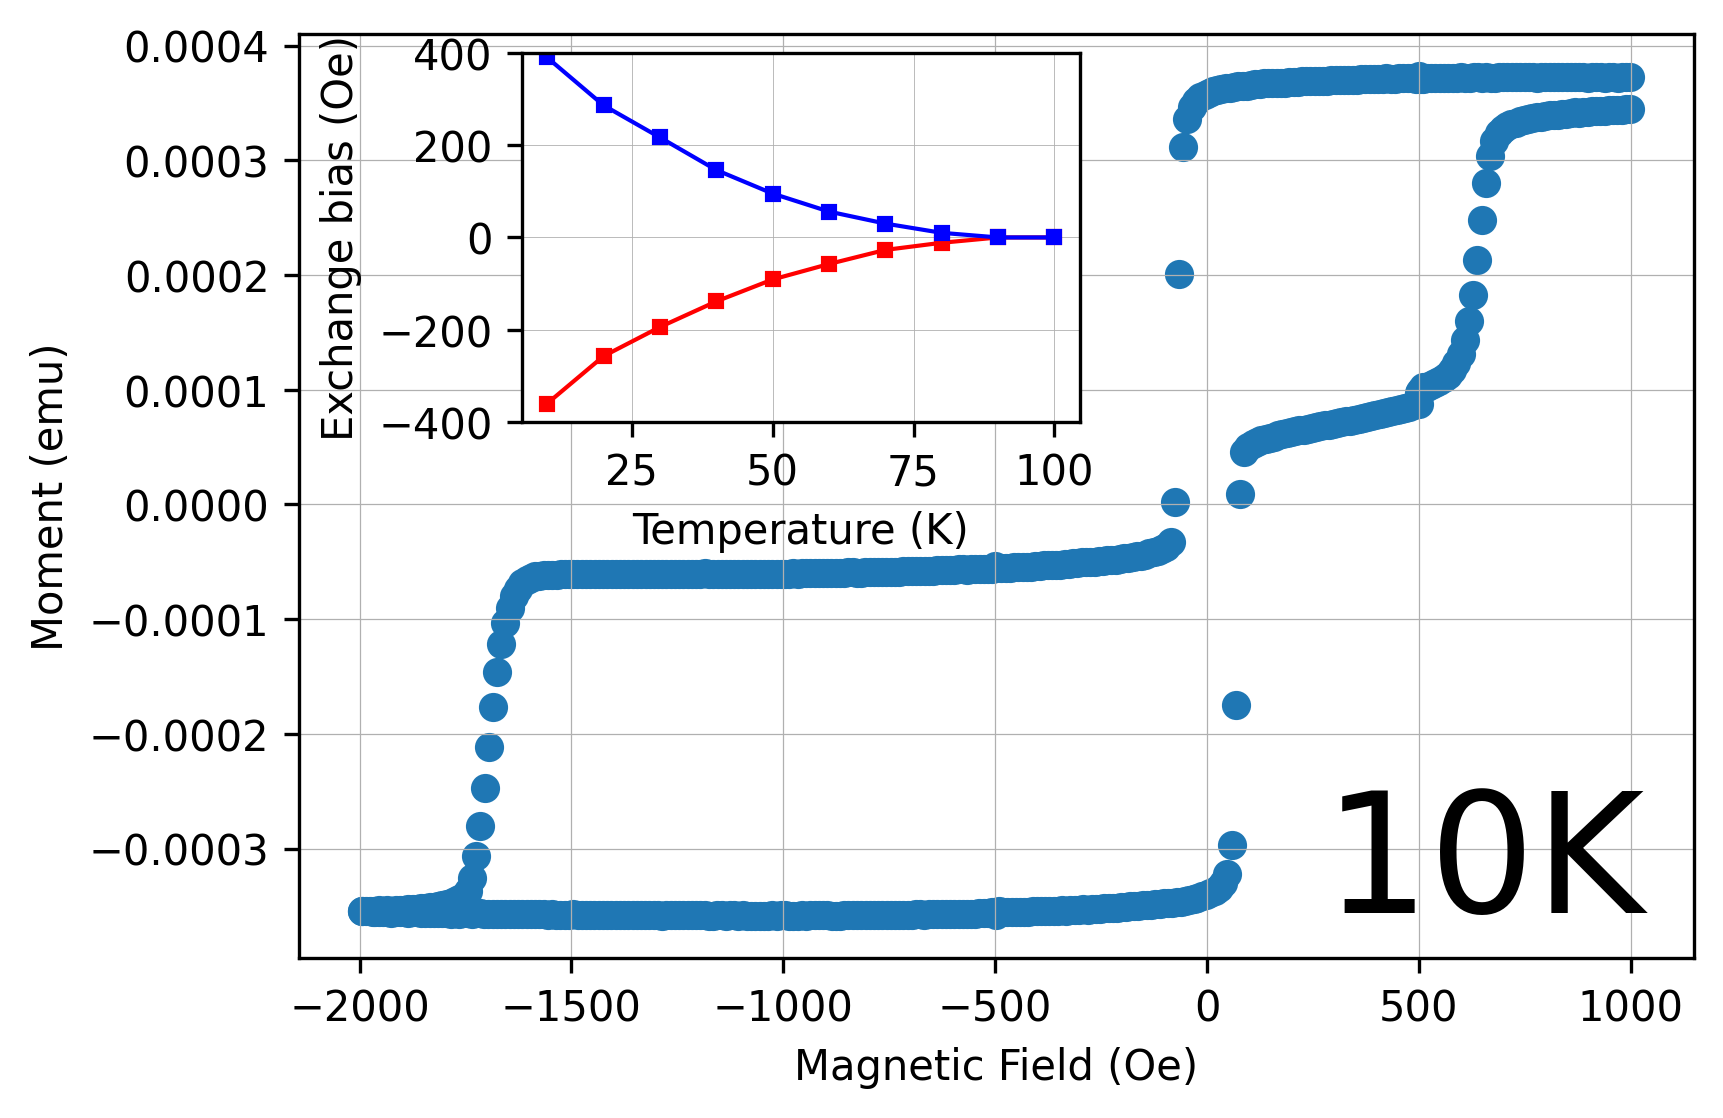
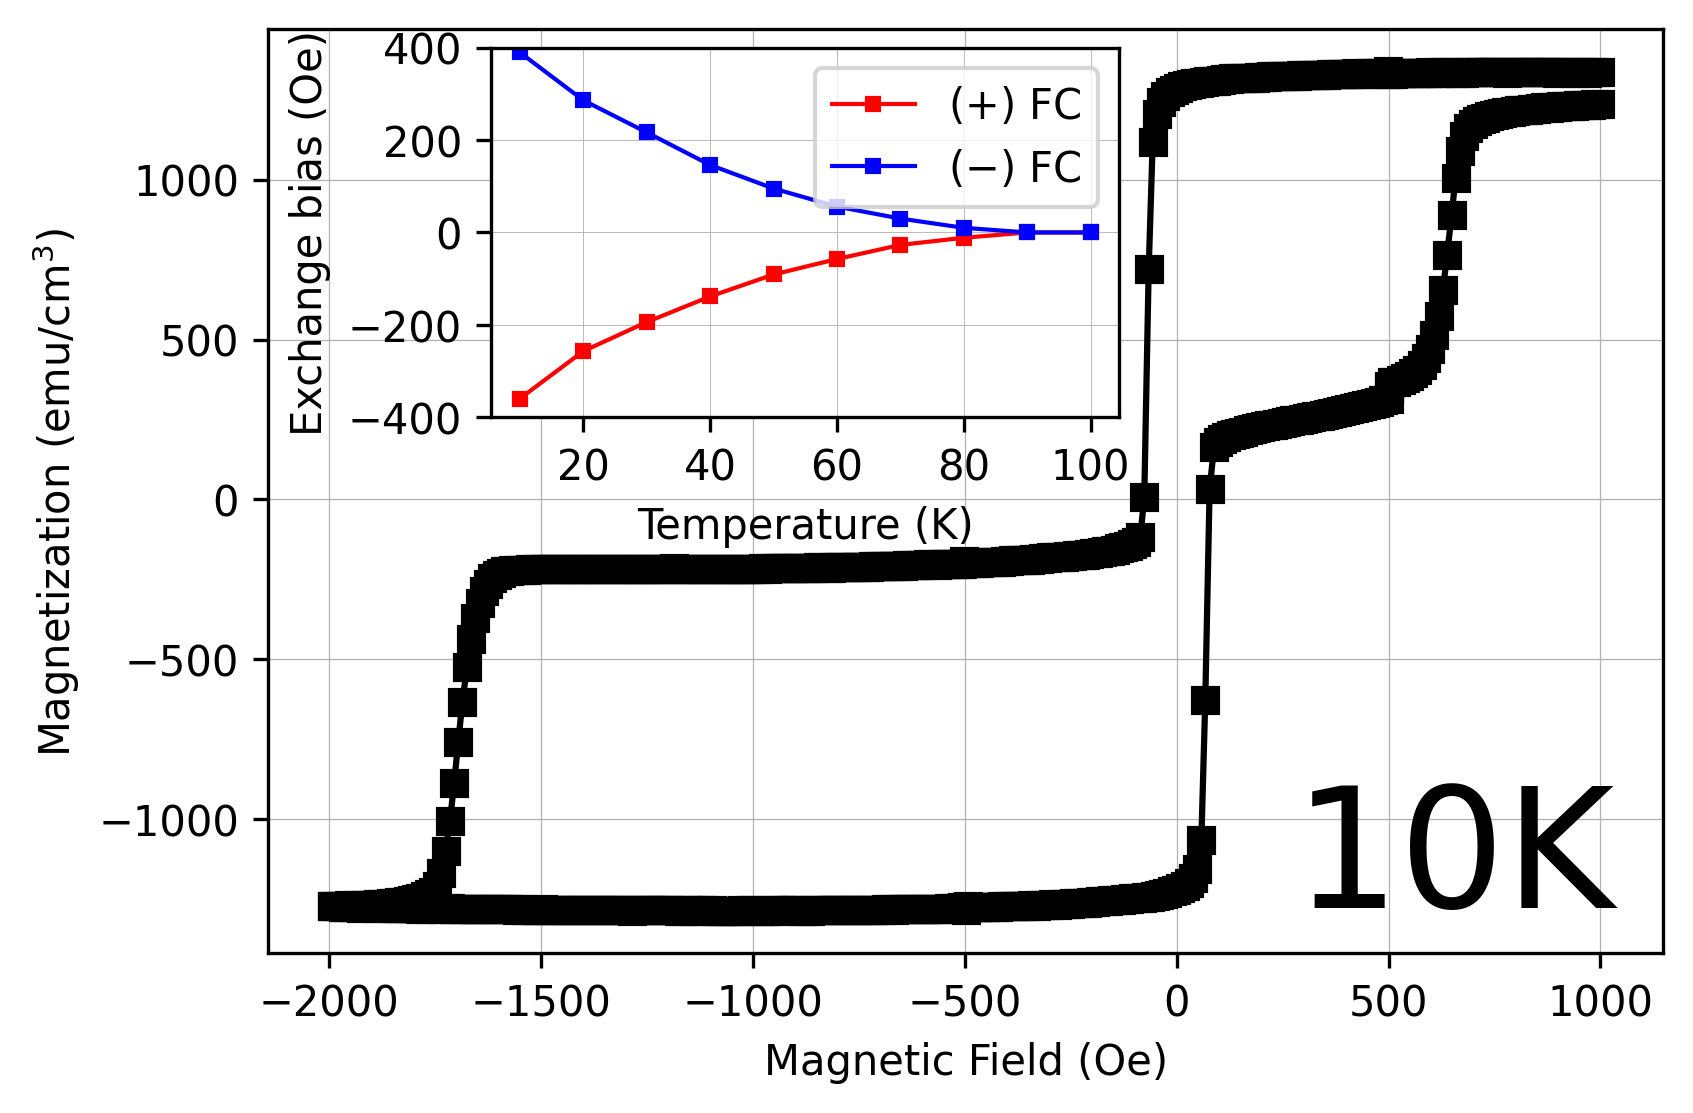
Change moment to magnetization in 10K hysteresis

diff --git a/10K_hysteresis_with_inset.py b/10K_hysteresis_with_inset.py
@@ -6,6 +6,8 @@ hysteresis_data_path = "10K_hysteresis.csv"
 save_graph_file_path = "10K_hysteresis_with_inset.png"
 separator = "\t"
 
+sample_volume = 2.788e-7
+
 # Data points
 
 def read_data(data_file_path):
@@ -38,22 +40,23 @@ if __name__ == "__main__":
     hysteresis_data_low_temp = [d for d in hysteresis_data_low_temp if d["Magnetic Field (Oe)"] > -2000 and d["Magnetic Field (Oe)"] < 1000]
 
     H = np.array([d["Magnetic Field (Oe)"] for d in hysteresis_data_low_temp])
-    M = np.array([d["Moment (emu)"] for d in hysteresis_data_low_temp])
+    Moment = np.array([d["Moment (emu)"] for d in hysteresis_data_low_temp])
+    Magnetization = Moment / sample_volume
 
-    ax.scatter(H, M)
+    ax.plot(H, Magnetization, color="black", marker='s')
     ax.set_xlabel('Magnetic Field (Oe)')
-    ax.set_ylabel('Moment (emu)')
+    ax.set_ylabel('Magnetization (emu/cm$^3$)')
     ax.grid(linewidth = 0.3)
     ax.text(0.85, 0.1, "10K", transform=ax.transAxes, fontsize=40, ha='center', va='center')
 
     """ Inset """
-    ax_inset = ax.inset_axes([0.16, 0.58, 0.4, 0.4])
+    ax_inset = ax.inset_axes([0.16, 0.58, 0.45, 0.4])
     xpoints, ypoints = read_data("Hc_Temp_1.txt")
-    ax_inset.plot(xpoints, ypoints, color = "red", marker='s', markersize=3, linewidth = 1)
+    ax_inset.plot(xpoints, ypoints, color = "red", marker='s', markersize=3, linewidth = 1, label="($+$) FC")
 
     xpoints, ypoints = read_data("Hc_Temp_2.txt")
-    ax_inset.plot(xpoints, ypoints, color = "blue", marker='s', markersize=3, linewidth = 1)
-    # plt.legend()      # Show legend
+    ax_inset.plot(xpoints, ypoints, color = "blue", marker='s', markersize=3, linewidth = 1, label="($-$) FC")
+    ax_inset.legend()      # Show legend
     ax_inset.set_xlabel("Temperature (K)")
     ax_inset.set_ylabel("Exchange bias (Oe)")
     ax_inset.set_ylim(-400, 400)